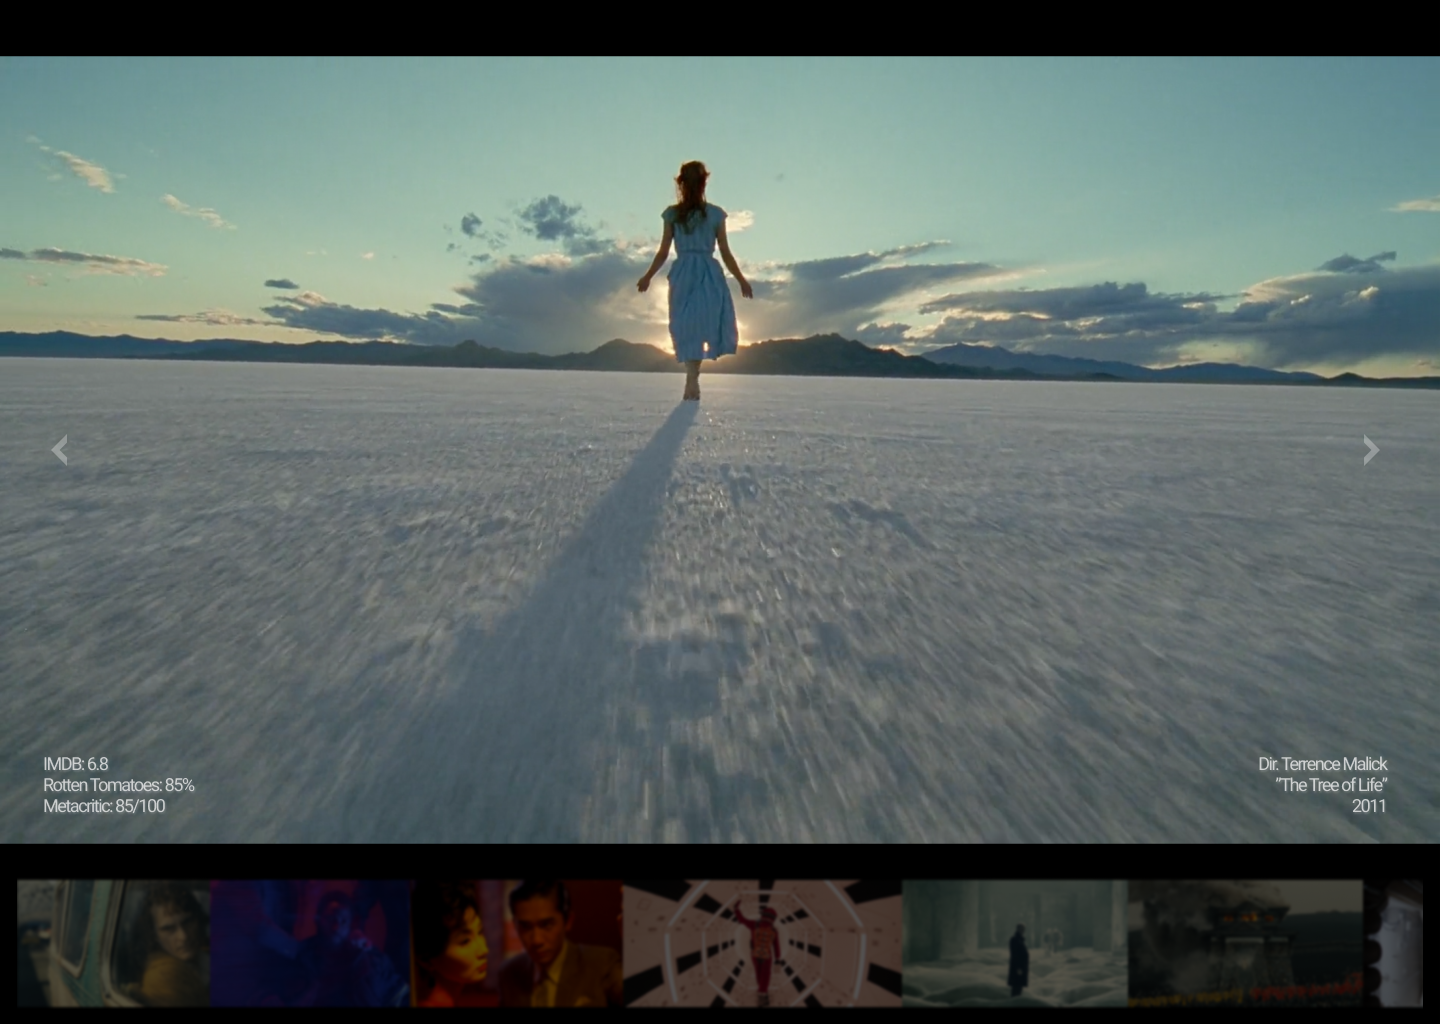
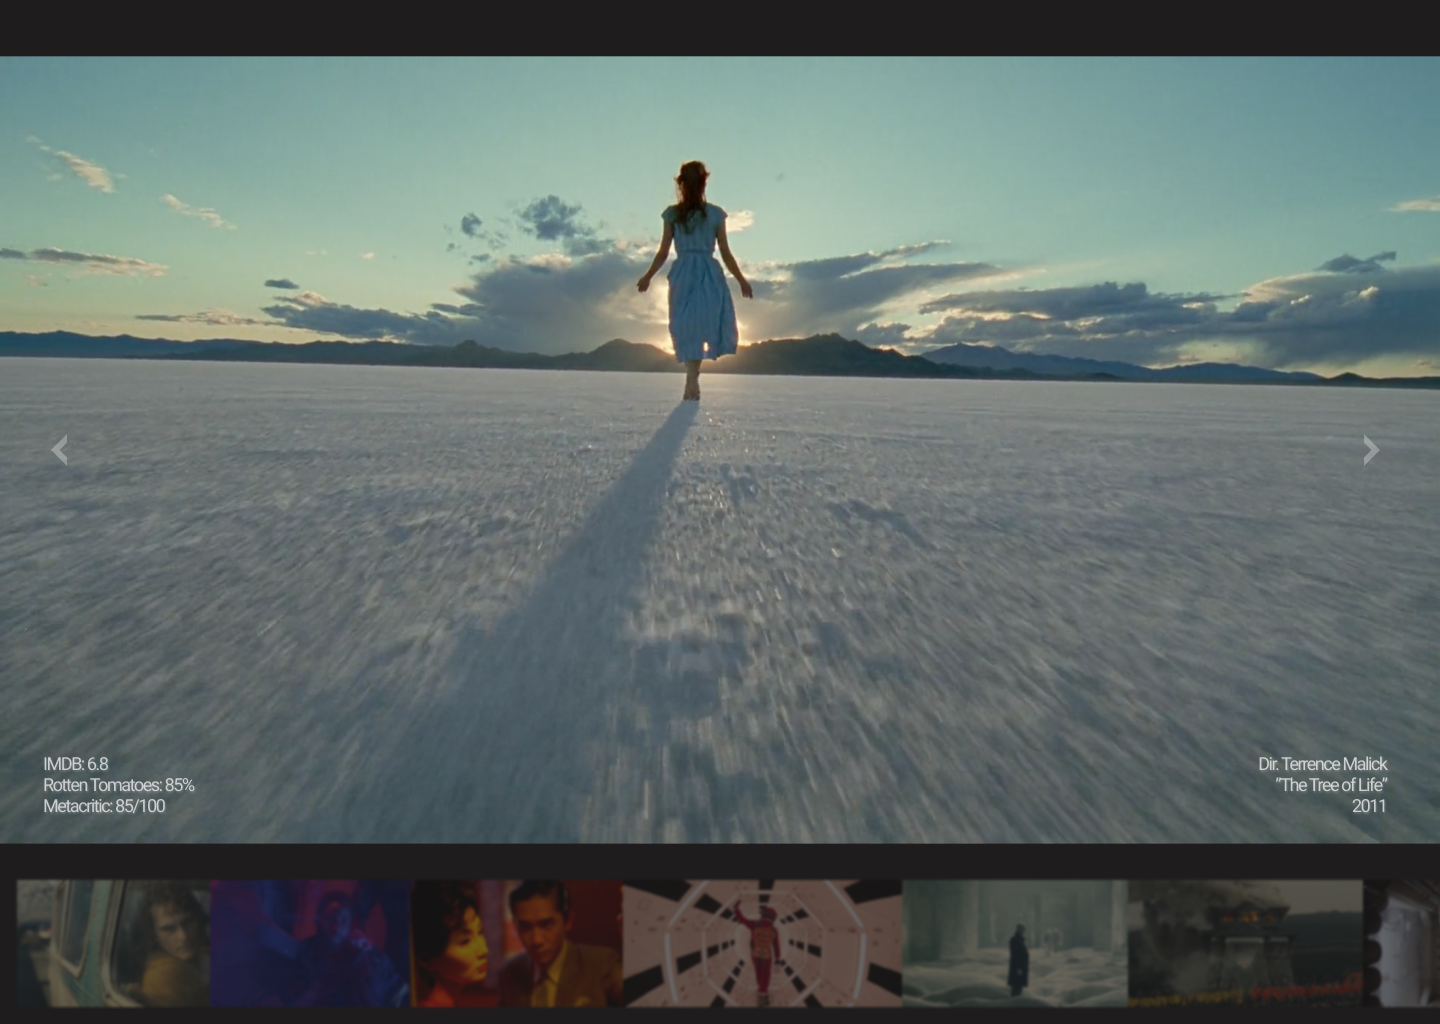
master

Changed region(s): [[0.0, 0.8125, 1.0, 1.0], [0.0, 0.0, 1.0, 0.0625]]

diff --git a/gallery.html b/gallery.html
@@ -25,56 +25,56 @@
       <div class="container-fluid">
           <div class="row no-gutters">
               <div class="col-lg-6 col-sm-6">
-                  <a class="portfolio-box" href="#">
-                      <img class="img-fluid" src="images/gallery2.png" alt="" />
+                  <a class="portfolio-box" href="fullscreen.html">
+                      <img class="img-fluid" src="images/1-tol.png" alt="" />
                       <div class="portfolio-box-caption">
-                        <!-- <div class="project-category text-white-50">Category</div>
-                        <div class="project-name">Project Name</div> -->
+                        <div class="project-category text-white-50">Malick, Terrence</div>
+                        <div class="project-name">The Tree of Life</div>
                       </div>
                   </a>
               </div>
               <div class="col-lg-6 col-sm-6">
-                  <a class="portfolio-box" href="#">
-                      <img class="img-fluid" src="images/gallery2.png" alt="" />
+                  <a class="portfolio-box" href="fullscreen.html">
+                      <img class="img-fluid" src="images/2-2001.png" alt="" />
                       <div class="portfolio-box-caption">
-                        <!-- <div class="project-category text-white-50">Category</div>
-                        <div class="project-name">Project Name</div> -->
+                        <div class="project-category text-white-50">Kubrick, Stanley</div>
+                        <div class="project-name">2001: A Space Odyssey</div>
                       </div>
                   </a>
               </div>
               <div class="col-lg-6 col-sm-6">
-                  <a class="portfolio-box" href="#">
-                      <img class="img-fluid" src="images/gallery2.png" alt="" />
+                  <a class="portfolio-box" href="fullscreen.html">
+                      <img class="img-fluid" src="images/3-ran.png" alt="" />
                       <div class="portfolio-box-caption">
-                        <!-- <div class="project-category text-white-50">Category</div>
-                        <div class="project-name">Project Name</div> -->
+                        <div class="project-category text-white-50">Kurosawa, Akira</div>
+                        <div class="project-name">Ran</div>
                       </div>
                   </a>
               </div>
               <div class="col-lg-6 col-sm-6">
-                <a class="portfolio-box" href="#">
-                    <img class="img-fluid" src="images/gallery2.png" alt="" />
+                <a class="portfolio-box" href="fullscreen.html">
+                    <img class="img-fluid" src="images/4-alien.png" alt="" />
                     <div class="portfolio-box-caption">
-                      <!-- <div class="project-category text-white-50">Category</div>
-                      <div class="project-name">Project Name</div> -->
+                      <div class="project-category text-white-50">Scott, Ridley</div>
+                      <div class="project-name">Alien</div>
                     </div>
                 </a>
             </div>
             <div class="col-lg-6 col-sm-6">
-                <a class="portfolio-box" href="#">
-                    <img class="img-fluid" src="images/gallery2.png" alt="" />
+                <a class="portfolio-box" href="fullscreen.html">
+                    <img class="img-fluid" src="images/5-stalker.jpg" alt="" />
                     <div class="portfolio-box-caption">
-                      <!-- <div class="project-category text-white-50">Category</div>
-                      <div class="project-name">Project Name</div> -->
+                      <div class="project-category text-white-50">Tarkovsky, Andrei</div>
+                      <div class="project-name">Stalker</div>
                     </div>
                 </a>
             </div>
             <div class="col-lg-6 col-sm-6">
-                <a class="portfolio-box" href="#">
-                    <img class="img-fluid" src="images/gallery2.png" alt="" />
+                <a class="portfolio-box" href="fullscreen.html">
+                    <img class="img-fluid" src="images/6-fury.png" alt="" />
                     <div class="portfolio-box-caption">
-                      <!-- <div class="project-category text-white-50">Category</div>
-                      <div class="project-name">Project Name</div> -->
+                      <div class="project-category text-white-50">Miller, George</div>
+                      <div class="project-name">Mad Max: Fury Road</div>
                     </div>
                 </a>
             </div>

diff --git a/index.html b/index.html
@@ -15,7 +15,7 @@
         <div class="collapse navbar-collapse" id="navbarResponsive">
             <ul class="navbar-nav ml-auto my-2 my-lg-0">
               <li class="nav-item"><a class="nav-link js-scroll-trigger" href="#"><img src="/icons/search.png"/></a></li>
-              <li class="nav-item"><a class="nav-link js-scroll-trigger" href="index.html"><img src="/icons/hamburger.png"/></a></li>
+              <li class="nav-item"><a class="nav-link js-scroll-trigger" href="gallery.html"><img src="/icons/hamburger.png"/></a></li>
             </ul>
         </div>
     </div>

diff --git a/styles.css b/styles.css
@@ -7,7 +7,7 @@ body {
 }
 
 .img-fluid {
-  filter: hue-rotate(0deg) saturate(110%) contrast(.80);
+  filter: hue-rotate(0deg) saturate(105%) contrast(.90);
 }
 
 #portfolio .container-fluid, #portfolio .container-sm, #portfolio .container-md, #portfolio .container-lg, #portfolio .container-xl {
@@ -30,7 +30,7 @@ body {
   text-align:4 center;
   opacity: 0;
   color: #fff;
-  background:#D5D5D5;
+  background:#1E1C1C;
   transition: opacity 0.25s ease;
   text-align: center;
 }
